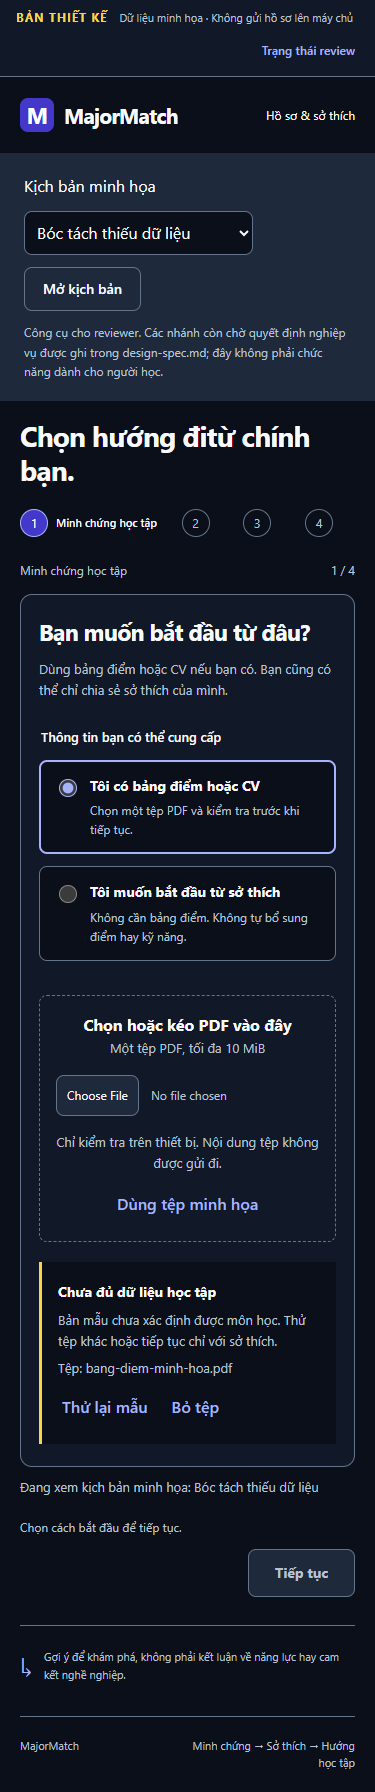
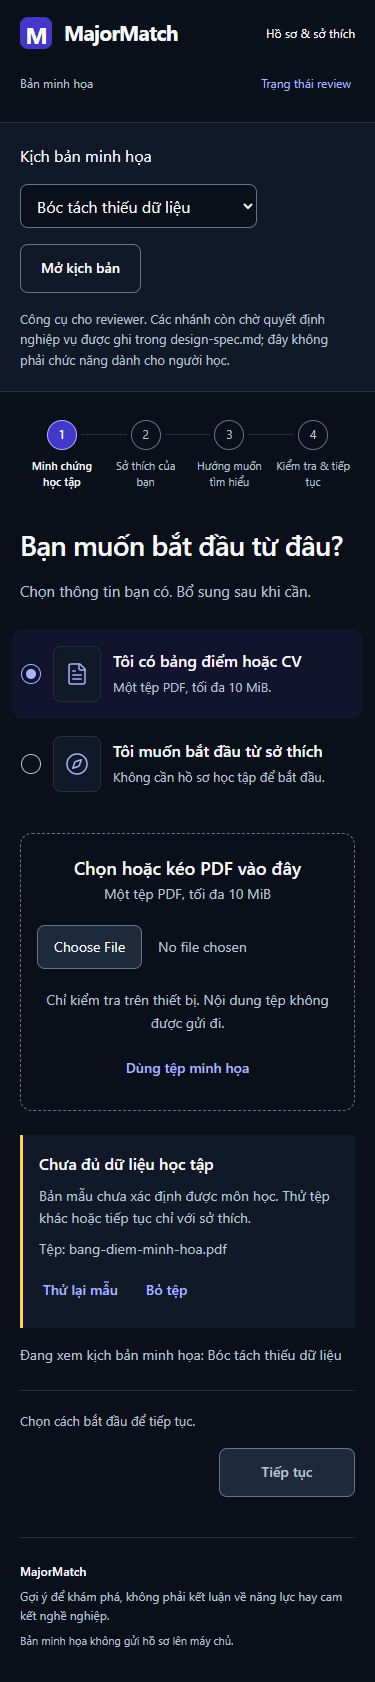
test(ingestion): document selected design and keyboard verification

diff --git a/client/docs/ai-evidence/ingestion/w4-prompt-log.md b/client/docs/ai-evidence/ingestion/w4-prompt-log.md
@@ -105,3 +105,13 @@ Artifacts: `design/ingestion/design-spec.md`, `prototype/`, `review.md`, `verifi
 Verification: four Node tests passed; ten browser groups passed on Edge 153.0.4234.32. Tested source `62c38af926aac90cb3f916bb53da54daf716d316`; generated report records date/revision/limits. Actual captures include 375/768/1280 layouts, survey, review, failures, partial/success samples, 200% CSS zoom and forced colors. Human visual inspection covered desktop intake/review and mobile intake/survey/error; fixed a run-together upload label and duplicate survey counter before regenerating evidence. Initial browser startup failed because the Windows Python server returned `.mjs` as `text/plain`; the shared Node loopback server fixes the MIME issue. This corrective shared change is committed separately.
 
 Token contrast checks passed (text 16.96, muted 9.96, button 7.90, error 10.13, border 3.73, focus 12.84). Browser observed no external requests or backend POST. Foundation checker passed 72 local Markdown links; `git diff --check` passed. Screen-reader speech, real keyboard-only end-to-end completion, live API/SSE/Zustand, production build, Figma fidelity and human policy approval remain unverified. Prototype checks do not close production acceptance criteria.
+
+## 10. Selected visual direction implementation
+
+User selected displayed option 1 and requested careful typography/colors and commits. Implemented the open horizontal-progress concept in the existing Ingestion branch as Hoàng. The selected generated reference is stored in `design/ingestion/references/selected-option-1.png`; it is not a runtime screenshot. Removed slogan rail and enclosing card, refined sans type scale/weights and spacing, retained shared dark/indigo tokens, added licensed Lucide icons, simplified learner copy while keeping demo provenance and recovery behavior. No other module, production src or policy was changed. The concept's invented account/feedback features were excluded.
+
+Frontend Design Review guided implementation/review. The previously requested Taste skill excludes multi-step forms; its marketing patterns were not imposed on the product journey. Product Design ideation was completed in the previous turn; this turn implements the user's selected image.
+
+Source commits: `850cfbe` layout/type/copy/icons; `73ac0e7` zoom reflow fix. Final verification: four model tests PASS, eleven browser groups PASS, 25 PNG captures; 77 local Markdown links and diff whitespace check PASS. The new keyboard-only test completes survey-only intake, all ten answers, a tag, review and handoff at 375px. Initial preview connection refusal was resolved by restarting the local Node server. A failing zoom check revealed action/header overflow; removing negative action margins and allowing header wrapping fixed it. Results record source `73ac0e76d2a0ea5bff544481a1e6155e9d894347`.
+
+Visual inspection covered desktop/mobile intake, desktop survey/review, mobile handoff and zoom. No full screen-reader, production build, live API, Figma fidelity or business-policy approval claimed. Design PRs remain review-only; publishing follows client-first then monorepo.

diff --git a/client/design/ingestion/design-spec.md b/client/design/ingestion/design-spec.md
@@ -6,7 +6,11 @@ Owner: Văn Hoàng (`Vcoch27`). Status: **conditional review prototype**, not an
 
 Translate [the Ingestion PRD](../../tasks/ingestion/prd-ingestion-ui.md) into an inspectable evidence → survey → interests → review journey. Follow [DESIGN.md](../../DESIGN.md), [guardrails](../../DESIGN-GUARDRAILS.md) and [shared tokens](../shared/tokens.css). Do not alter Analytics, Advisor, scoring policy or production routes.
 
-Use the existing dark/indigo identity, solid surfaces, one primary action and a persistent workflow rail. System sans typography keeps Vietnamese readable without remote font requests. At widths below 700px, use a compact progress row and one column; retain the full task rather than hiding required inputs. Fieldsets and native radio/checkbox/file controls preserve keyboard semantics. Ten survey answers are split into two pages of five; nothing defaults to neutral. Optional technical detail is collapsed beneath the review summary.
+Use the existing dark/indigo identity, solid surfaces and one primary action. The user selected [visual option 1](references/selected-option-1.png) on 2026-09-15, replacing the slogan sidebar and enclosing card with horizontal progress and an open 800px task column inside the 1120px shell. At widths below 700px, retain all four progress labels and a single task column. Ten survey answers remain split into two pages of five, with no default neutral response.
+
+Typography: Segoe UI/system sans supports Vietnamese without remote font requests; headings 38px/600 desktop, 28px mobile, body 16px, choice titles 20px desktop/16px mobile. Survey prompts use regular weight rather than blanket bold. Preserve shared indigo and semantic feedback colors. Module-only `--ing-divider` is a subdued blend for non-interactive separators, not control boundaries; `--ing-selected` is an indigo selection tint. Control borders keep high contrast. No gradients, glows or new typeface dependency.
+
+Lucide file-text and compass geometry comes from release 0.447.0, with license in prototype/LUCIDE-LICENSE.txt, matching the production icon family. The concept's account icon and feedback link are omitted because they are outside the PRD. The action row stays aligned to the form for reliable zoom reflow. These are documented refinements, not pixel-exact reproduction claims. Technical JSON stays collapsed; learner copy no longer exposes internal XD-01/DERIVED jargon. Original disclaimer and business gates remain intact.
 
 The banner labels every screen as a design/demo. Journey labels for Analytics and Advisor are context, not functional navigation. No real Figma file was authored; editable HTML/CSS/ES modules are the design source, PNGs are review evidence, JSON is generated verification output.
 

diff --git a/client/design/ingestion/review.md b/client/design/ingestion/review.md
@@ -1,5 +1,15 @@
 # Frontend Design Review: Ingestion review prototype
 
+## Current revision: selected option 1
+
+2026-09-15: user selected the first displayed Product Design concept and requested attention to typography/colors plus commits. Source `73ac0e7` supersedes the visual assessment below. [Chosen target](references/selected-option-1.png) and current [desktop](screenshots/intake-1280.png), [mobile](screenshots/intake-375.png) captures show the open layout, horizontal progress, icon-assisted choices and restrained shared indigo. The original review below records the first pass; its old screenshots are recoverable in Git, while linked PNGs now show the revised source.
+
+Frontend Design Review was used for this implementation. Visual comparison covered intake, survey, review, mobile handoff and zoom. Font family remains the shared Vietnamese-capable sans; hierarchy is refined through size, regular/semibold weights and spacing, not decorative type. Low-contrast dividers separate content only; control borders remain distinct. No marketing imagery, account feature or new brand palette was introduced.
+
+Verification rerun: **4 model tests and 11 browser groups PASS**, 25 actual screenshots. New keyboard-only 375px test traverses both survey pages, tags, review and handoff. The 200% CSS-zoom check initially failed: removing action overflow alone was insufficient; allowing header wrapping fixed the remaining overflow. Final generated results name the tested source. Local server was restarted after an initial connection-refused run. Neither failure is counted as a pass.
+
+Verdict: ready for user visual review, not production sign-off. Screen-reader speech, live integrations, Figma fidelity and policy approval remain unverified. Existing Q1-Q9 remain open; visual selection is not business-policy approval.
+
 ## Context
 
 Văn Hoàng · Week 4 Task 2 · source revision `62c38af`. Purpose: let learners provide evidence, independently answer interest questions and review their selected career directions. Direction: restrained MajorMatch dark/indigo workflow, strong task hierarchy and explicit provenance. Reviewed using the client-local Microsoft Frontend Design Review skill. Taste is installed but explicitly does not govern multi-step product forms.

diff --git a/client/design/ingestion/verification/README.md b/client/design/ingestion/verification/README.md
@@ -4,6 +4,6 @@ From monorepo root, start `node client/design/shared/serve.cjs`. In a standalone
 
 Run `node --test client/design/ingestion/verification/model.test.mjs` for four model tests. Browser verification requires an available Playwright package and installed Microsoft Edge, but adds no production dependency. If Playwright is not resolvable from Node, set `MAJORMATCH_PLAYWRIGHT_PATH` to its absolute package directory. Optionally set `MAJORMATCH_BROWSER_CHANNEL` to another installed Playwright-supported browser channel.
 
-Run `node client/design/ingestion/verification/browser-check.cjs`. It generates [results.json](results.json) and 24 PNGs under `../screenshots/`. The recorded revision identifies the committed prototype source; the evidence commit follows it. Run against a clean source checkout for reproducibility. The default preview URL is loopback port 4173; the network assertion intentionally permits only that origin. No real personal records are needed: test PDFs are synthetic buffers.
+Run `node client/design/ingestion/verification/browser-check.cjs`. It generates [results.json](results.json) and 25 PNGs under `../screenshots/`. The recorded revision identifies the committed prototype source; the evidence commit follows it. Run against a clean source checkout for reproducibility. The default preview URL is loopback port 4173; the network assertion intentionally permits only that origin. No real personal records are needed: test PDFs are synthetic buffers. The revised suite has eleven groups, including a keyboard-only 375px survey-to-handoff journey.
 
 The report separates ten checked groups from unverified work. CSS zoom and emulated forced-colors/reduced-motion are smoke checks, not a full browser/assistive-technology certification. Screenshots require human inspection in addition to automated overflow checks. Do not interpret this report as production E2E, live API, Figma fidelity or policy approval.

diff --git a/client/design/ingestion/README.md b/client/design/ingestion/README.md
@@ -6,6 +6,8 @@ Branch: `feat/vanhoang-w4-ingestion-ui-design`. Git Author: `Vcoch27 <hoangtungm
 
 Status: conditional review prototype, not production or PRD approval.
 
+Current visual revision: user-selected [option 1](references/selected-option-1.png), implemented as an open task surface with horizontal progress. Typography and indigo usage follow shared tokens; no production routes changed. See the latest section of the design review for verification and deliberate deviations from the generated image.
+
 - [Design specification and PRD mapping](design-spec.md)
 - [Editable prototype](prototype/index.html) — run `node client/design/shared/serve.cjs` from monorepo root, then open http://127.0.0.1:4173/design/ingestion/prototype/
 - [Desktop capture](screenshots/intake-1280.png) and [mobile capture](screenshots/intake-375.png)
